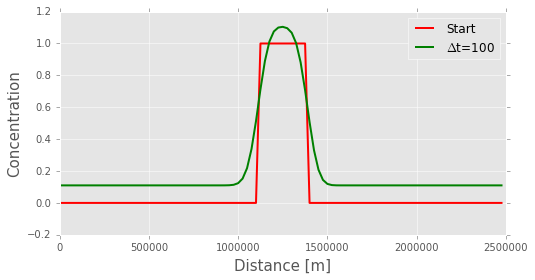
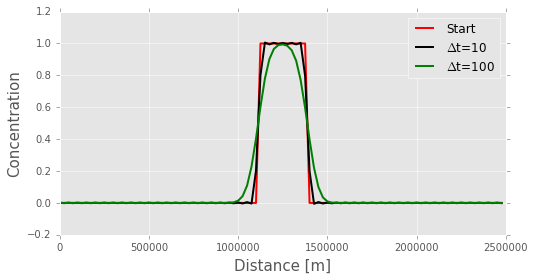
home

diff --git a/SOAC/Exercise2/SOAC_Ex2_Spectral.py b/SOAC/Exercise2/SOAC_Ex2_Spectral.py
@@ -3,35 +3,44 @@ start_time = time.time()
 
 plt.figure(num=None, figsize=(8,4),dpi=150, facecolor='w', edgecolor='k')
 
+tmax=250*1000
+J=100
 Cmatrix_spec=np.zeros(shape=(np.int(tmax/Dt),np.int(L/Dx)))
 
 for j in range(0,J):
     Cmatrix_spec[0,j]=C[j]
 plt.plot(xvec,Cmatrix_spec[0], 'r-',linewidth=2)
 
-for Dz in [100]:
+Dzvec=[10,100]
+
+for Dz in Dzvec:
     Cmatrix_spec=np.zeros(shape=(np.int(tmax/Dz),np.int(L/Dx)))
 
     for j in range(0,J):
         Cmatrix_spec[0,j]=C[j]
     #Transformation to spectral space
-    alpha=np.zeros(shape=(np.int(tmax/Dz),np.int(L/Dx)))
-    beta=np.zeros(shape=(np.int(tmax/Dz),np.int(L/Dx)))
+    alpha=np.zeros(shape=(np.int(tmax/Dz),np.int(L/Dx)),dtype='f')
+    beta=np.zeros(shape=(np.int(tmax/Dz),np.int(L/Dx)),dtype='f')
     
     
     for i in range(0,np.int(J/2.)):
         wavenumber=i
-        summation=np.zeros(np.int(L/Dx))
+        summation1=np.zeros(np.int(L/Dx))
+        summation2=np.zeros(np.int(L/Dx))
         for j in range(0,J):
-            summation[j]=C[j]*np.cos(-2*np.pi*wavenumber*j/J)
+            summation1[j]=C[j]*np.cos(-2.*np.pi*wavenumber*j/J)
+            summation2[j]=C[j]*np.sin(-2.*np.pi*wavenumber*j/J)
             
-        alpha[0,i]=2./J*np.sum(summation)
-        beta[0,i]=C[j]
+        #alpha[0,i]=2./J*np.sum(summation)
+        #beta[0,i]=C[j]
+        alpha[0,i]=2./J*np.sum(summation1)
+        beta[0,i]=2./J*np.sum(summation2)
+    print('part 1 completed of Dz='+str(Dz))
     
     #Time integration of coefficients
     for t in range(1,np.int(tmax/Dz)):
-        Dummy1=np.zeros(np.int(xmax/Dx))
-        Dummy2=np.zeros(np.int(xmax/Dx))
+        Dummy1=np.zeros(np.int(xmax/Dx),dtype='f')
+        Dummy2=np.zeros(np.int(xmax/Dx),dtype='f')
         for k in range(0,np.int(J/2.)):
             Dummy1[k]=alpha[t-1,k]+Dz*2.*np.pi*u0*k*beta[t-1,k]/L
             Dummy2[k]=beta[t-1,k]-Dz*2.*np.pi*u0*k*alpha[t-1,k]/L
@@ -39,6 +48,7 @@ for Dz in [100]:
         for k in range(0,np.int(J/2.)):
             alpha[t,k]=alpha[t-1,k]+Dz*2.*np.pi*u0*k*Dummy2[k]/L
             beta[t,k]=beta[t-1,k]-Dz*2.*np.pi*u0*k*Dummy1[k]/L
+    print('part 2 completed of Dz='+str(Dz))
             
     #Transformation back to physical space
     Cmatrix_spec_sspace=np.array(alpha)+1j*np.array(beta)
@@ -47,14 +57,17 @@ for Dz in [100]:
         for i in range(0,np.int(L/Dx)):
             summation=np.zeros(np.int(J/2.))
             for k in range(0,np.int(J/2.)):
-                summation[k]=Cmatrix_spec_sspace[t,k]*np.exp(1j*(2.*np.pi*k*i*Dx/L))
-            Cmatrix_spec[t,i]=np.real(sum(summation))
+                summation[k]=np.real(Cmatrix_spec_sspace[t,k]*np.exp(1j*(2.*np.pi*k*i*Dx/L)))
+            Cmatrix_spec[t,i]=sum(summation)
+    print('part 3 completed of Dz='+str(Dz))
+    
     if Dz==10:
-        plt.plot(xvec,Cmatrix_spec[np.int(tmax/Dz)-1], 'k-',linewidth=2)
+        plt.plot(xvec,Cmatrix_spec[np.int(tmax/Dz)-1]-np.mean(C), 'k-',linewidth=2)
     if Dz==100:
-        plt.plot(xvec,Cmatrix_spec[np.int(tmax/Dz)-1], 'g-',linewidth=2)
+        plt.plot(xvec,Cmatrix_spec[np.int(tmax/Dz)-1]-np.mean(C), 'g-',linewidth=2)
     if Dz==1000:
-        plt.plot(xvec,Cmatrix_spec[np.int(tmax/Dz)-1], 'b-',linewidth=2)
+        plt.plot(xvec,Cmatrix_spec[np.int(tmax/Dz)-1]-np.mean(C), 'b-',linewidth=2)
+    print('part 4 completed of Dz='+str(Dz))
             
 print("--- %s seconds ---" % (time.time() - start_time))
 
@@ -62,7 +75,7 @@ plt.ylabel(r'Concentration',fontsize=15)
 plt.xlabel('Distance [m]',fontsize=15)
 plt.tick_params(axis='both', which='major', labelsize=10)
 plt.ylim([-0.2,1.2])
-plt.legend(['Start', r'$\Delta$t=100'])#r'$\Delta$t=10', r'$\Delta$t=100', r'$\Delta$t=1000'])
+plt.legend(['Start', r'$\Delta$t=10', r'$\Delta$t=100'])
 
 #%%
 plt.figure(num=None, figsize=(10,5),dpi=150, facecolor='w', edgecolor='k')
@@ -95,7 +108,7 @@ def animate(i):
 
 # call the animator.  blit=True means only re-draw the parts that have changed.
 anim = animation.FuncAnimation(fig, animate, init_func=init,
-                               frames=25000, interval=2, blit=True)
+                               frames=250, interval=100, blit=True)
 
 #anim.save('basic_animation.mp4', fps=30, extra_args=['-vcodec', 'libx264'])
 

diff --git a/SOAC/Exercise2/SOAC_Ex2_LaxWendroff.py b/SOAC/Exercise2/SOAC_Ex2_LaxWendroff.py
@@ -1,11 +1,15 @@
 import time
 start_time = time.time()
 
+Cmatrix_laxw=np.zeros(shape=(2,np.int(L/Dx)))
+for j in range(0,J):
+    Cmatrix_laxw[0,j]=C[j]
+    
 plt.figure(num=None, figsize=(8,4),dpi=150, facecolor='w', edgecolor='k')
 plt.plot(xvec,Cmatrix_laxw[0], 'r-',linewidth=2)
 
 
-for Dz in [10,100,1000]:
+for Dz in [1000]:
     Cmatrix_laxw=np.zeros(shape=(np.int(tmax/Dz),np.int(L/Dx)))
         
 
@@ -19,6 +23,8 @@ for Dz in [10,100,1000]:
             if j==np.int(xmax/Dx)-1:
                 Cmatrix_laxw[t,j]=Cmatrix_laxw[t-1,j]+(-u0*(Cmatrix_laxw[t-1,0]-Cmatrix_laxw[t-1,j-1])/(2*Dx)+u0**2.*Dz/2.*(Cmatrix_laxw[t-1,0]-2.*Cmatrix_laxw[t-1,j]+Cmatrix_laxw[t-1,j-1])/(Dx**2))*Dz
         
+    if Dz==1:
+        plt.plot(xvec,Cmatrix_laxw[np.int(tmax/Dz)-1], 'm-',linewidth=2)
     if Dz==10:
         plt.plot(xvec,Cmatrix_laxw[np.int(tmax/Dz)-1], 'k-',linewidth=2)
     if Dz==100:
@@ -33,7 +39,7 @@ plt.ylabel(r'Concentration',fontsize=15)
 plt.xlabel('Distance [m]',fontsize=15)
 plt.tick_params(axis='both', which='major', labelsize=10)
 plt.ylim([-0.2,1.2])
-plt.legend(['Start', r'$\Delta$t=10', r'$\Delta$t=100', r'$\Delta$t=1000'])
+plt.legend(['Start', r'$\Delta$t=1', r'$\Delta$t=10', r'$\Delta$t=100', r'$\Delta$t=1000'])
 
 #%% Animation
 from matplotlib import animation
@@ -57,7 +63,7 @@ def animate(i):
 
 # call the animator.  blit=True means only re-draw the parts that have changed.
 anim = animation.FuncAnimation(fig, animate, init_func=init,
-                               frames=25000, interval=0.01, blit=True)
+                               frames=1000, interval=50, blit=True)
 
 #anim.save('basic_animation.mp4', fps=30, extra_args=['-vcodec', 'libx264'])
 

diff --git a/SOAC/Exercise2/SOAC_Ex2_EulerForward.py b/SOAC/Exercise2/SOAC_Ex2_EulerForward.py
@@ -1,26 +1,27 @@
 import time
 start_time = time.time()
 
+Cmatrix_euler=np.zeros(shape=(2,np.int(L/Dx)))
+for j in range(0,J):
+    Cmatrix_euler[0,j]=C[j]
+    
 plt.figure(num=None, figsize=(8,4),dpi=150, facecolor='w', edgecolor='k')
+plt.plot(xvec,Cmatrix_euler[0], 'r-',linewidth=2)
 
-<<<<<<< HEAD
 for Dz in [1,10,100,1000]:
-=======
-for Dz in [100]:
->>>>>>> 6a0e3c5e1774c32ef4ece45758ee1d8ddfbc4449
         
     
     Cmatrix_euler=np.zeros(shape=(np.int(tmax/Dz),np.int(L/Dx)))
-    plt.plot(xvec,Cmatrix_euler[0], 'r-',linewidth=2)
     
     for j in range(0,J):
         Cmatrix_euler[0,j]=C[j]
-    plt.plot(xvec,Cmatrix_euler[0], 'r-',linewidth=2)
         
     for t in range(1,np.int(tmax/Dz)):
         for j in range(0,np.int(xmax/Dx)):
             Cmatrix_euler[t,j]=Cmatrix_euler[t-1,j]-u0*(Cmatrix_euler[t-1,j]-Cmatrix_euler[t-1,j-1])*Dz/Dx
-    
+            
+    if Dz==1:
+        plt.plot(xvec,Cmatrix_euler[np.int(tmax/Dz)-1], 'm-',linewidth=2)    
     if Dz==10:
         plt.plot(xvec,Cmatrix_euler[np.int(tmax/Dz)-1], 'k-',linewidth=2)
     if Dz==100:
@@ -33,7 +34,7 @@ print("--- %s seconds ---" % (time.time() - start_time))
 plt.ylabel(r'Concentration',fontsize=15)
 plt.xlabel('Distance [m]',fontsize=15)
 plt.tick_params(axis='both', which='major', labelsize=10)
-plt.legend(['Start', r'$\Delta$t=10', r'$\Delta$t=100', r'$\Delta$t=1000'])
+plt.legend(['Start', r'$\Delta$t=1', r'$\Delta$t=10', r'$\Delta$t=100', r'$\Delta$t=1000'])
 plt.ylim([-0.2,1.2])
 
 #%% Animation
